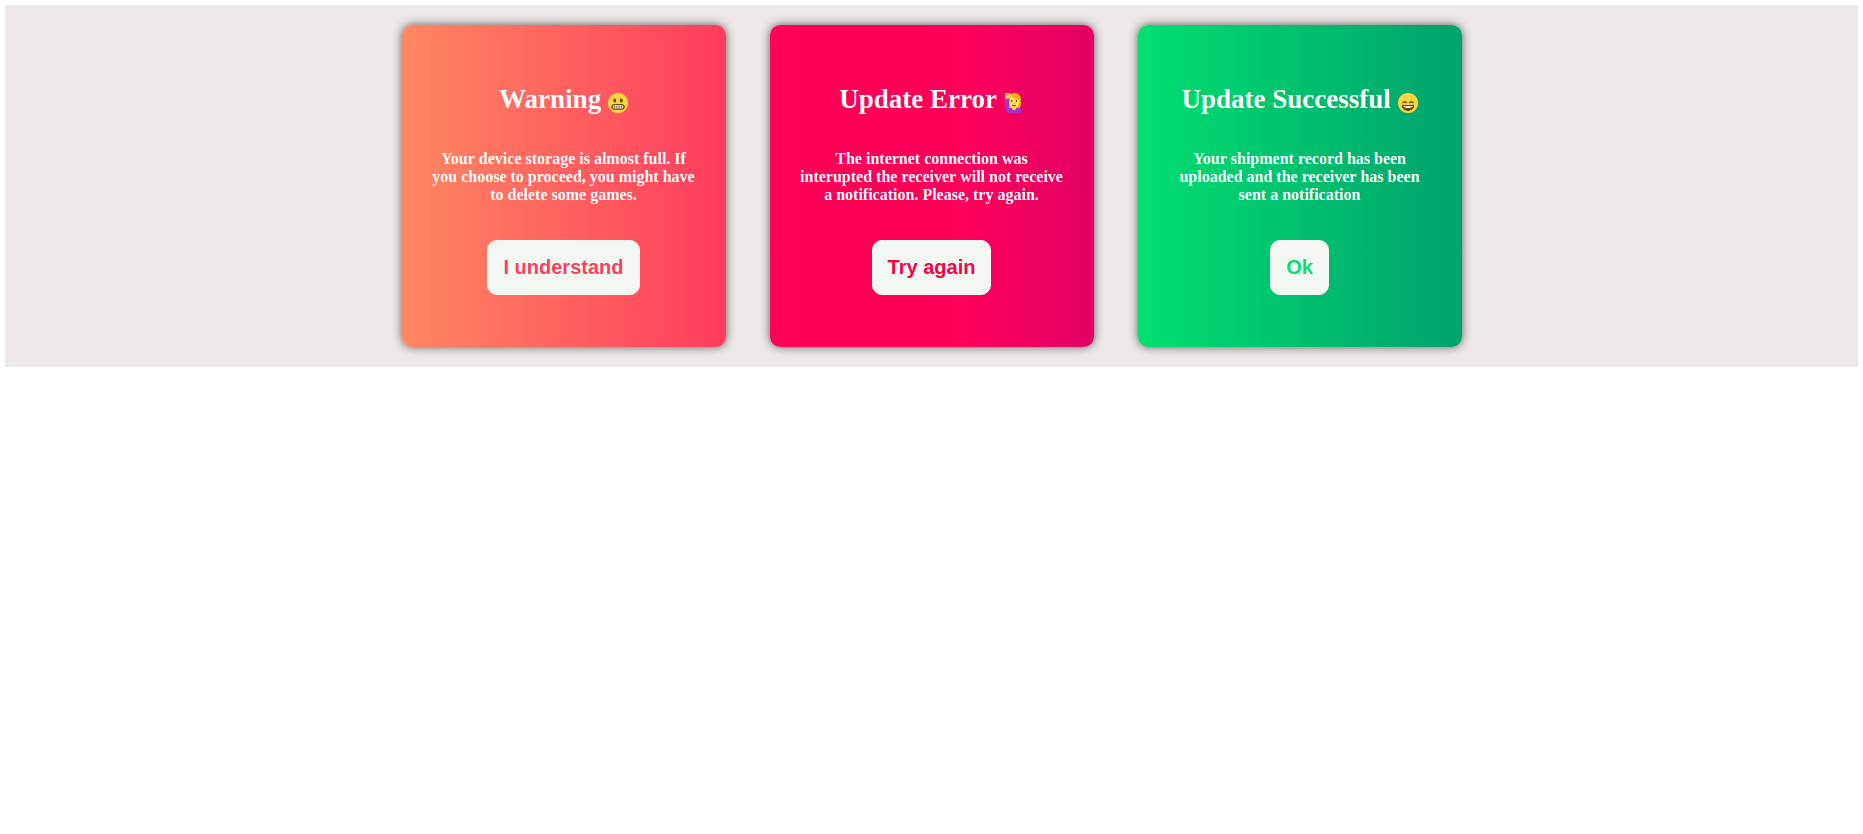
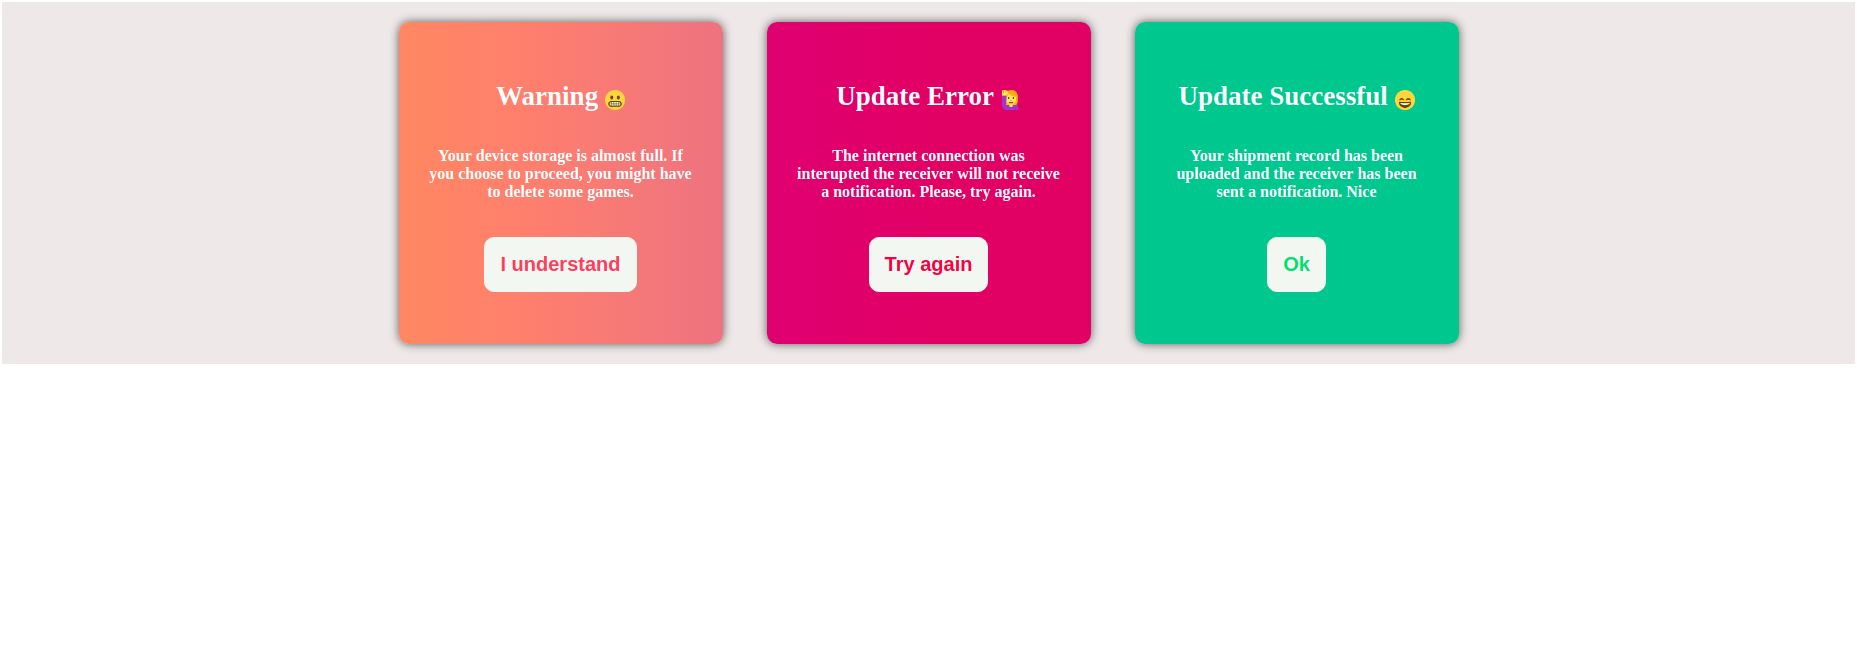
Adds a readme file

Changed region(s): [[0.1874, 0.0302, 0.8121, 0.543], [0.2186, 0.0302, 0.2499, 0.0603]]

diff --git a/style/style.css b/style/style.css
@@ -36,8 +36,8 @@
   background: #ff9966;
   /* fallback for old browsers */
   /* Chrome 10-25, Safari 5.1-6 */
-  background: -webkit-gradient(linear, left top, right top, from(#FD916A), to(#FD6266));
-  background: linear-gradient(to right, #FD916A, #FD6266);
+  background: -webkit-gradient(linear, left top, right top, from(#FD916A), to(#e28285));
+  background: linear-gradient(to right, #FD916A, #e28285);
   /* W3C, IE 10+/ Edge, Firefox 16+, Chrome 26+, Opera 12+, Safari 7+ */
 }
 
@@ -45,8 +45,8 @@
   background: #F5515F;
   /* fallback for old browsers */
   /* Chrome 10-25, Safari 5.1-6 */
-  background: -webkit-gradient(linear, left top, right top, from(#F5515F), color-stop(#F44F60), to(#D00269));
-  background: linear-gradient(to right, #F5515F, #F44F60, #D00269);
+  background: -webkit-gradient(linear, left top, right top, from(#ce1c75), color-stop(#D00269), to(#D00269));
+  background: linear-gradient(to right, #ce1c75, #D00269, #D00269);
   /* W3C, IE 10+/ Edge, Firefox 16+, Chrome 26+, Opera 12+, Safari 7+ */
 }
 
@@ -54,8 +54,8 @@
   background: #1D976C;
   /* fallback for old browsers */
   /* Chrome 10-25, Safari 5.1-6 */
-  background: -webkit-gradient(linear, left top, right top, from(#30CC71), to(#1D976C));
-  background: linear-gradient(to right, #30CC71, #1D976C);
+  background: -webkit-gradient(linear, left top, right top, from(#3cbb8f), to(#3cbb8f));
+  background: linear-gradient(to right, #3cbb8f, #3cbb8f);
   /* W3C, IE 10+/ Edge, Firefox 16+, Chrome 26+, Opera 12+, Safari 7+ */
 }
 

diff --git a/index.html b/index.html
@@ -35,7 +35,7 @@
                     <div class="message message-success">
                         <div class="message-body">
                             <h3 class="message-title message-title-success">Update Successful <i class="em em-smile"></i></h3>
-                            <p class="message-paragraph"> Your shipment record has been uploaded and the receiver has been sent a notification</p>
+                            <p class="message-paragraph"> Your shipment record has been uploaded and the receiver has been sent a notification. Nice</p>
                         </div>
                         <div class="footer">
                             <button class="btn btn-success">Ok</button>

diff --git a/style/style.scss b/style/style.scss
@@ -8,14 +8,14 @@ $font_family_1: Arial;
 $blue: #599bb3;
 $light_blue: #408c99;
 $light_blue_: #f4f7f2;
-$light_red:#F5515F;
-$light_green:#1D976C;
-$green:#30CC71;
-$medium_red:#F44F60;
+$light_red:rgb(206, 28, 117);
+$light_green:rgb(60, 187, 143);
+$green:rgb(60, 187, 143);
+$medium_red:#D00269;
 $heavy_red:#D00269;
 $warning_gradient: (#FD916A, #FD6266 );
 $light_orange: #FD916A;
-$orange:#FD6266;
+$orange:rgb(226, 130, 133);
 $white:white;
 $btn_background: #f4f7f2;
 $btn_background_warning:#f4f7f2;
